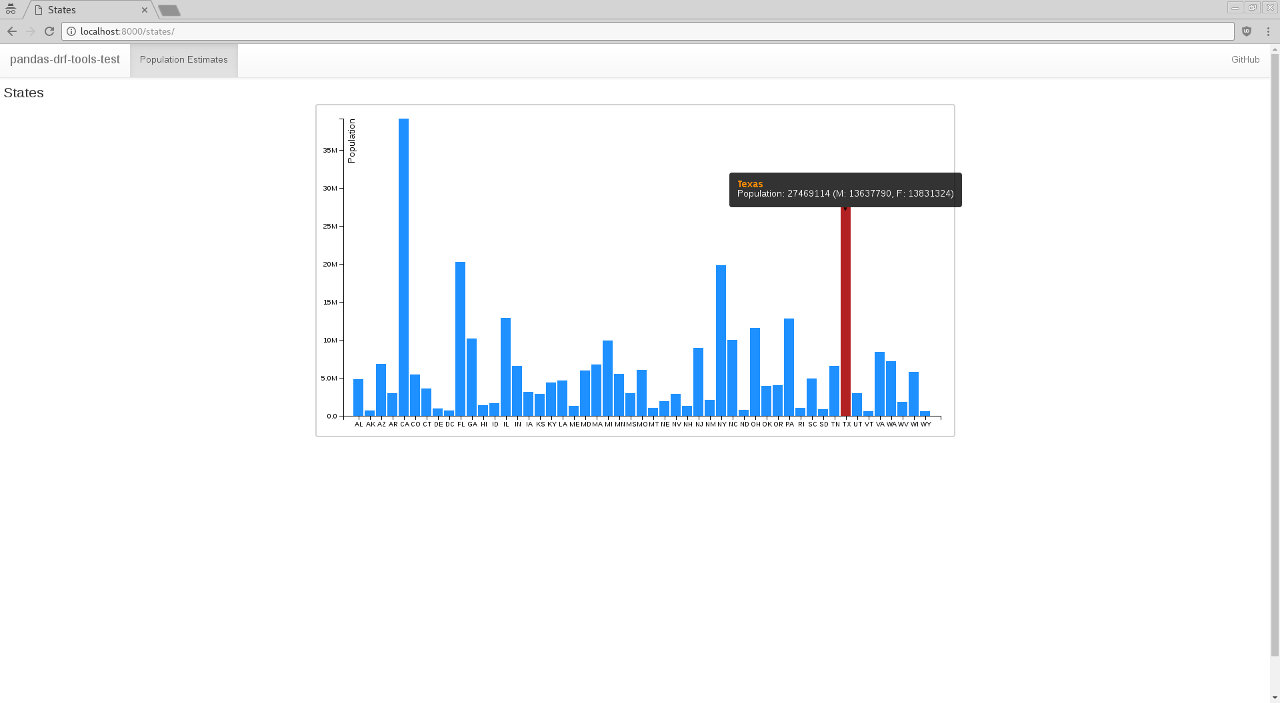
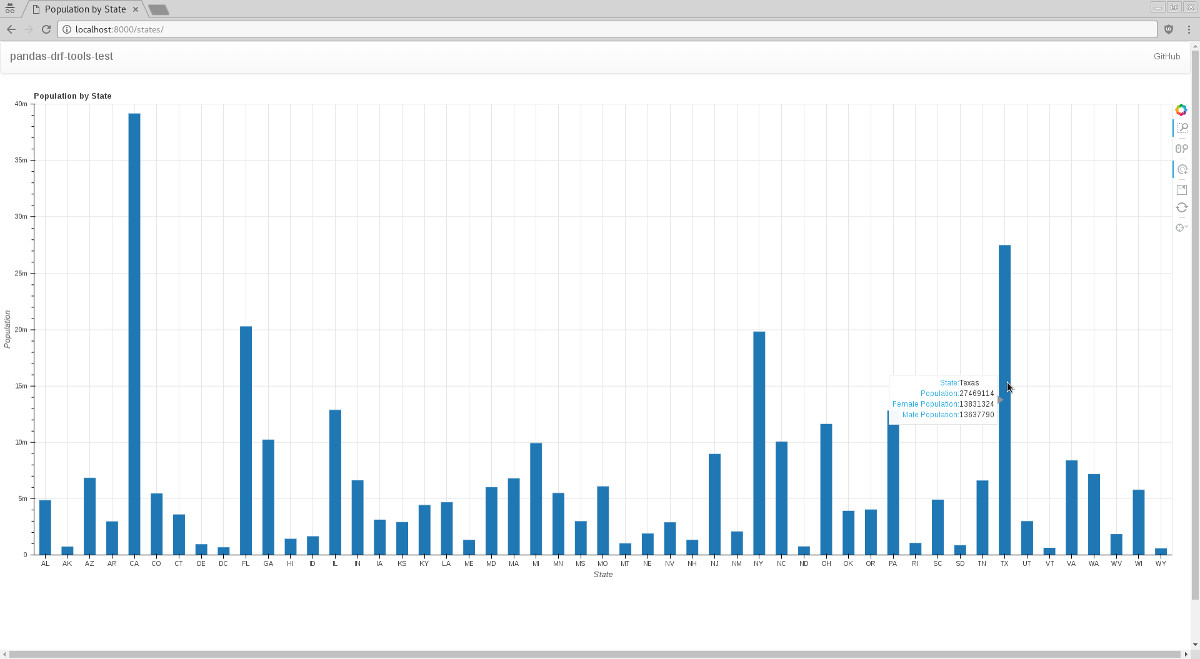
Update README

diff --git a/README.md b/README.md
@@ -1,16 +1,12 @@
 # pandas-drf-tools-test
 
-This project shows you how to use [pandas-drf-tools](https://github.com/abarto/pandas-drf-tools) with a live [Django REST Framework](http://www.django-rest-framework.org/) site.
-
-The site uses information the [US Census Bureau](http://www.census.gov/) to demonstrate how to manipulate a [Pandas](http://pandas.pydata.org/) through a RESTful API.
+This project shows you how to use [pandas-drf-tools](https://github.com/abarto/pandas-drf-tools) with a live [Django REST Framework](http://www.django-rest-framework.org/) site that generates [Bokeh](http://bokeh.pydata.org/en/latest/) charts from information stored in [Pandas](http://pandas.pydata.org/) data frames. The data is taken from the [US Census Bureau](http://www.census.gov/) site.
 
 A `Vagrantfile` is provided if you wish to test the project in a live environment. Bare in mind that the provisioning script **downloads a lot of data** from the Census site.
 
 ## States Population Estimates
 
 The first part of the project shows what I think is going to be the most common use case for the [pandas-drf-tools](https://github.com/abarto/pandas-drf-tools) package, and that is taking an existing DataFrame and exposing it so a front-end application can make use of the data.
-
-The site exposes information about state and county population estimates using information from the Census Bureau:
 
 ```python
 @lru_cache()
@@ -39,11 +35,65 @@ def get_state_df():
     return state_df
 ```
 
-Afterwards a JavaScript application uses [D3.js](https://d3js.org/) to generate column charts of the state and county population estimates hitting the following `ReadOnlyDataFrameViewSet` instances:
+The data is presented to the user using [Bokeh](http://bokeh.pydata.org/en/latest/) charts. The charts are generated by two views. The first one shows the population of each state:
+
+```python
+def get_state_abbreviations():
+    alldata_df = get_cc_est2015_alldata_df()
+    return alldata_df['STUSAB'].drop_duplicates().tolist()
+
+
+def get_states_plot():
+    source = AjaxDataSource(
+        data={'STATE': [], 'STNAME': [], 'STUSAB': [], 'TOT_POP': [], 'TOT_MALE': [], 'TOT_FEMALE': []},
+        data_url='/api/states/', mode='replace', method='GET')
+
+    hover = HoverTool(
+        tooltips=[
+            ("State", "@STNAME"),
+            ("Population", "@TOT_POP"),
+            ("Female Population", "@TOT_FEMALE"),
+            ("Male Population", "@TOT_MALE"),
+        ]
+    )
+
+    plot = figure(title='Population by State', plot_width=1200, plot_height=500,
+                  x_range=FactorRange(factors=get_state_abbreviations()), y_range=(0, 40000000),
+                  tools=[hover, 'tap','box_zoom','wheel_zoom','save','reset'])
+    plot.toolbar.active_tap = 'auto'
+    plot.xaxis.axis_label = 'State'
+    plot.yaxis.axis_label = 'Population'
+    plot.yaxis.formatter = NumeralTickFormatter(format="0a")
+    plot.sizing_mode = 'scale_width'
+    plot.vbar(bottom=0, top='TOT_POP', x='STUSAB', legend=None, width=0.5, source=source)
+
+    url = "/counties/@STATE/"
+    taptool = plot.select(type=TapTool)
+    taptool.callback = OpenURL(url=url)
+
+    return plot
+
+
+class StatesView(TemplateView):
+    template_name = 'chart.html'
+
+    def get_context_data(self, **kwargs):
+        context_data = super().get_context_data(**kwargs)
+
+        plot = get_states_plot()
+        bokeh_script, bokeh_div = components(plot, CDN)
+
+        context_data['title'] = 'Population by State'
+        context_data['bokeh_script'] = bokeh_script
+        context_data['bokeh_div'] = bokeh_div
+
+        return context_data
+```
+This view illustrates the guidelines given for [embdding Bokeh charts](http://bokeh.pydata.org/en/latest/docs/user_guide/embed.html). The interesting parts lies in the usage of ``AjaxDataSource``. When the chart is rendered in the front-end, it'll make a ``GET`` request to the supplied URL to fetch the data. Here's where pandas-drf-tools comes into play. The request is handled by a ``ReadOnlyDataFrameViewSet`` that exposes the dataframe constructed above.
 
 ```python
 class StateEstimatesViewSet(ReadOnlyDataFrameViewSet):
-    serializer_class = DataFrameReadOnlyToDictRecordsSerializer
+    serializer_class = DataFrameListSerializer
     pagination_class = LimitOffsetPagination
 
     def get_dataframe(self):
@@ -55,37 +105,53 @@ class StateEstimatesViewSet(ReadOnlyDataFrameViewSet):
         population_by_state = latest_total_population.groupby(['STATE']).sum().join(state_names_df)\
             .reset_index()
 
-        return population_by_state
-
-
-class CountyEstimatesViewSet(ReadOnlyDataFrameViewSet):
-    serializer_class = DataFrameReadOnlyToDictRecordsSerializer
-    pagination_class = LimitOffsetPagination
-
-    def get_dataframe(self):
-        alldata_df = get_cc_est2015_alldata_df()
-        county_names_df = alldata_df[['STATE', 'COUNTY', 'CTYNAME']].set_index('COUNTY')\
-            .drop_duplicates()
-        latest_total_population = alldata_df[(alldata_df.YEAR == 8) & (alldata_df.AGEGRP == 0)]
-        population_by_county = latest_total_population.groupby(['COUNTY']).sum()\
-            .join(county_names_df).reset_index()
-
-        return population_by_county
-
-    def filter_dataframe(self, dataframe):
-        dataframe = dataframe[dataframe.STATE == self.request.query_params['state']]
-        return dataframe
+        return population_by_state[['STATE', 'STNAME', 'STUSAB', 'TOT_POP', 'TOT_MALE', 'TOT_FEMALE']]
 ```
 
-Notice how the original DataFrame is adapted for each case by implementing the `get_dataframe` method. At the state level we summarize the data for the last year available grouping by state, and the county level we do the same, but grouping by county, and also we allow the user filtering by state by implementing the `filter_dataframe` method.
+The ``DataFrameListSerializerDataFrameListSerializer`` used in this view is compatible with the format that Bokeh uses, so there's nothing else to do. If you click on state column, a chart is going to be show with the top ten counties (by population) on said state. This view is handled with a regular Django view with an embedded Bokeh chart:
+
+```python
+def get_counties_data_frame(state_fips_code):
+    alldata_df = get_cc_est2015_alldata_df()
+    county_names_df = alldata_df[['STATE', 'COUNTY', 'CTYNAME']].set_index('COUNTY') \
+        .drop_duplicates()
+    latest_total_population = alldata_df[(alldata_df.YEAR == 8) & (alldata_df.AGEGRP == 0)]
+    population_by_county = latest_total_population.groupby(['COUNTY']).sum() \
+        .join(county_names_df).reset_index()
+
+    population_by_county = population_by_county[['STATE', 'COUNTY', 'CTYNAME', 'TOT_POP', 'TOT_MALE', 'TOT_FEMALE']]
+    population_by_county = population_by_county[population_by_county.STATE == state_fips_code]
+    population_by_county = population_by_county.sort_values('TOT_POP', ascending=False)[:10]
+
+    return population_by_county
+
+def get_counties_plot(data_frame):
+    plot = Bar(data_frame, label='CTYNAME', values='TOT_POP', agg='max', plot_width=1200, plot_height=500,
+               title='Population by County', legend=False)
+    plot.xaxis.axis_label = 'County'
+    plot.yaxis.axis_label = 'Population'
+    plot.yaxis.formatter = NumeralTickFormatter(format="0a")
+    plot.sizing_mode = 'scale_width'
+    return plot
+
+class CountiesView(TemplateView):
+    template_name = 'chart.html'
+
+    def get_context_data(self, **kwargs):
+        context_data = super().get_context_data(**kwargs)
+
+        data_frame = get_counties_data_frame(kwargs['state_fips_code'])
+        plot = get_counties_plot(data_frame)
+        bokeh_script, bokeh_div = components(plot, CDN)
+
+        context_data['title'] = 'Population by County'
+        context_data['bokeh_script'] = bokeh_script
+        context_data['bokeh_div'] = bokeh_div
+
+        return context_data
+```
 
 ![Screenshot](screenshot.jpg "Screenshot")
-
-If you click on state column, a chart is going to be show with the top ten counties (by population) on said state. The ordering and slicing of county data is done all in the front-end.
-
-```javascript
-data = _.sortBy(data.records, 'TOT_POP').reverse().slice(0, 10);
-```
 
 ## DataFrameViewSet
 
